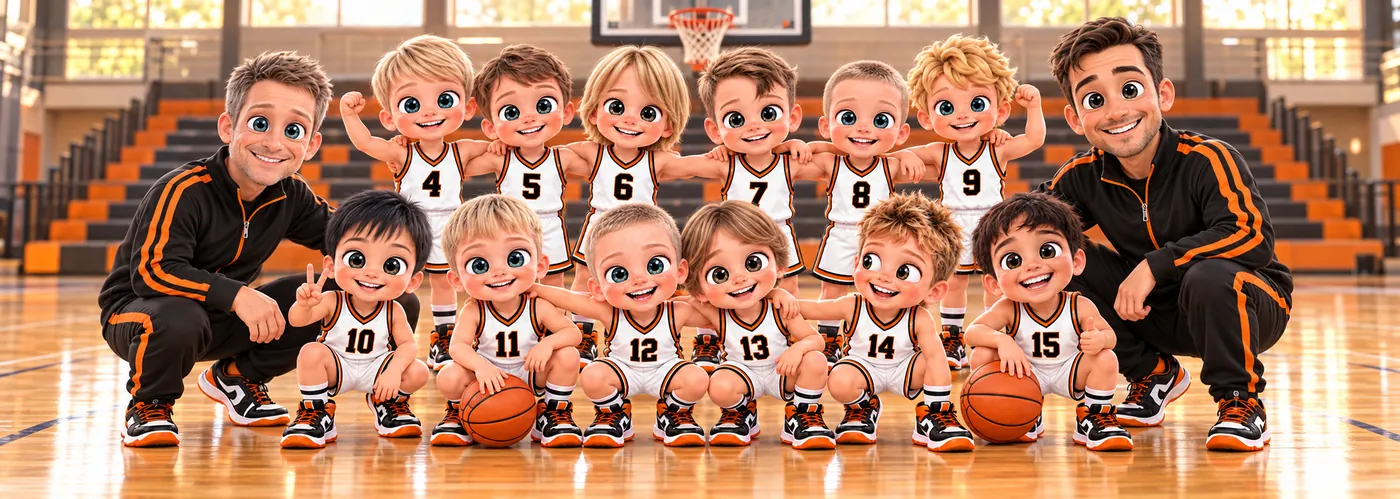
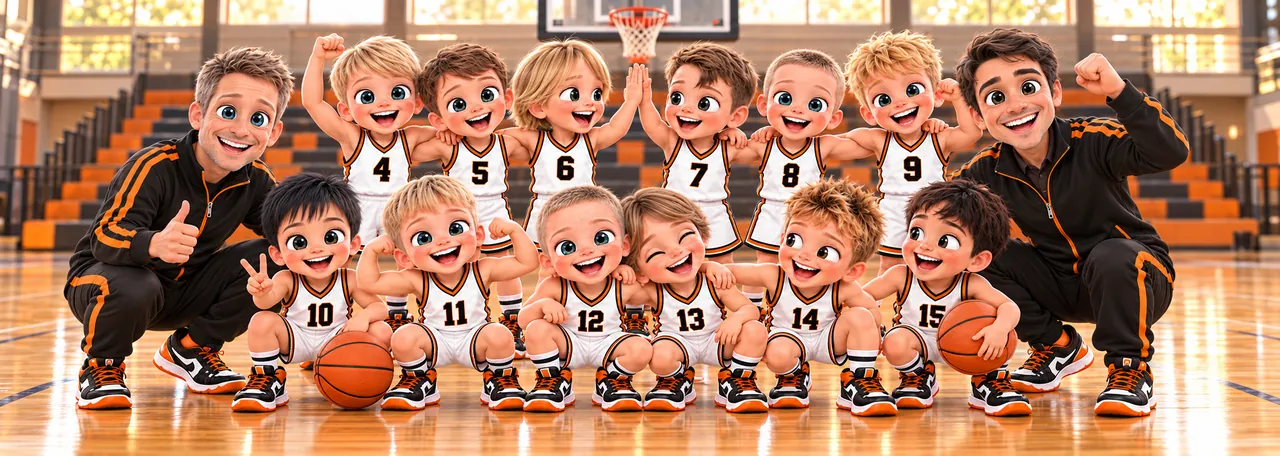
Replace the Home hero with Bart’s new unframed group photo.
Keep the framed album shot on Spelers and bump the Home cache-bust.

diff --git a/src/pages/Home.tsx b/src/pages/Home.tsx
@@ -51,10 +51,10 @@ export function Home() {
             style={{ animationDelay: '0.12s' }}
           >
             <img
-              src="/stickers/groep-u10c-2026-home.webp?v=20260918c"
+              src="/stickers/groep-u10c-2026-home.webp?v=20260918d"
               alt={`Leuven Bears U10C groepsfoto ${team.season}`}
-              width={1400}
-              height={499}
+              width={1280}
+              height={456}
               className="home-hero-photo__img"
             />
           </div>
